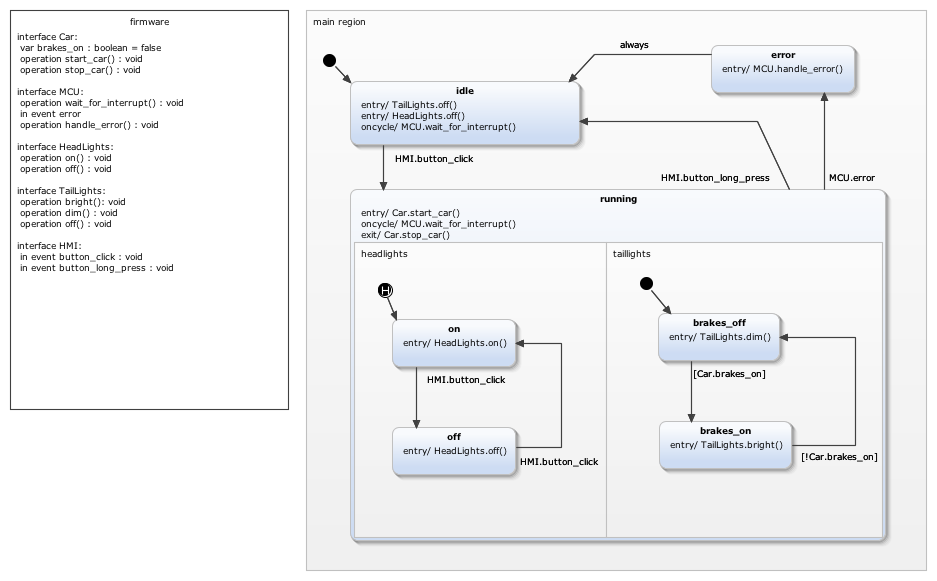
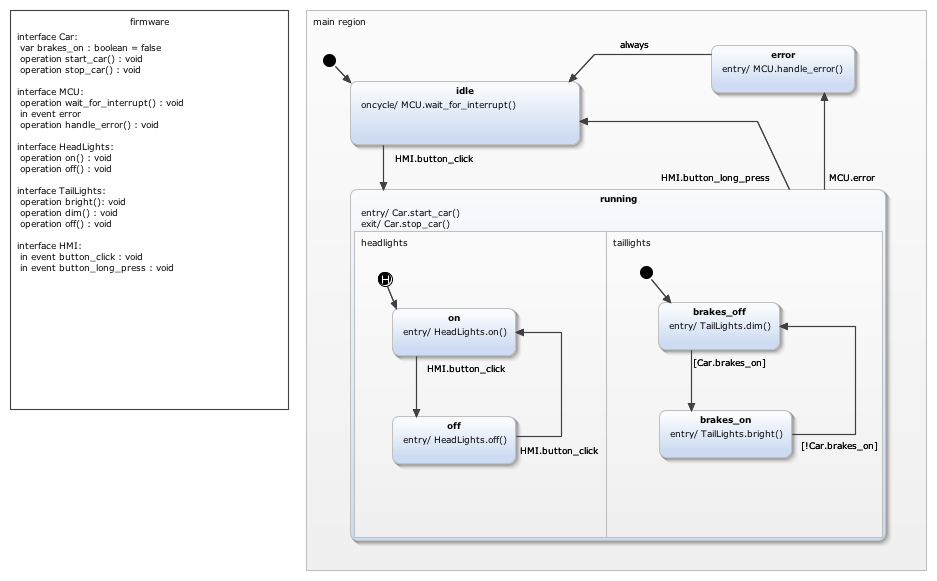
Working version.

diff --git a/Firmware/Wake-on-Shake_Firmware/Firmware.c b/Firmware/Wake-on-Shake_Firmware/Firmware.c
@@ -12,7 +12,6 @@ static sc_boolean firmware_check_main_region_idle_tr0_tr0(const Firmware* handle
 static sc_boolean firmware_check_main_region_idle_lr0_lr0(const Firmware* handle);
 static sc_boolean firmware_check_main_region_running_tr0_tr0(const Firmware* handle);
 static sc_boolean firmware_check_main_region_running_tr1_tr1(const Firmware* handle);
-static sc_boolean firmware_check_main_region_running_lr1_lr1(const Firmware* handle);
 static sc_boolean firmware_check_main_region_running_headlights_on_tr0_tr0(const Firmware* handle);
 static sc_boolean firmware_check_main_region_running_headlights_off_tr0_tr0(const Firmware* handle);
 static sc_boolean firmware_check_main_region_running_taillights_brakes_on_tr0_tr0(const Firmware* handle);
@@ -22,7 +21,6 @@ static void firmware_effect_main_region_idle_tr0(Firmware* handle);
 static void firmware_effect_main_region_idle_lr0_lr0(Firmware* handle);
 static void firmware_effect_main_region_running_tr0(Firmware* handle);
 static void firmware_effect_main_region_running_tr1(Firmware* handle);
-static void firmware_effect_main_region_running_lr1_lr1(Firmware* handle);
 static void firmware_effect_main_region_running_headlights_on_tr0(Firmware* handle);
 static void firmware_effect_main_region_running_headlights_off_tr0(Firmware* handle);
 static void firmware_effect_main_region_running_taillights_brakes_on_tr0(Firmware* handle);
@@ -282,11 +280,6 @@ static sc_boolean firmware_check_main_region_running_tr1_tr1(const Firmware* han
 	return handle->ifaceMCU.error_raised;
 }
 
-static sc_boolean firmware_check_main_region_running_lr1_lr1(const Firmware* handle)
-{
-	return bool_true;
-}
-
 static sc_boolean firmware_check_main_region_running_headlights_on_tr0_tr0(const Firmware* handle)
 {
 	return handle->ifaceHMI.button_click_raised;
@@ -333,11 +326,6 @@ static void firmware_effect_main_region_running_tr1(Firmware* handle)
 {
 	firmware_exseq_main_region_running(handle);
 	firmware_enseq_main_region_error_default(handle);
-}
-
-static void firmware_effect_main_region_running_lr1_lr1(Firmware* handle)
-{
-	firmwareIfaceMCU_wait_for_interrupt(handle);
 }
 
 static void firmware_effect_main_region_running_headlights_on_tr0(Firmware* handle)
@@ -699,7 +687,6 @@ static void firmware_react_main_region_running_headlights_on(Firmware* handle)
 			firmware_effect_main_region_running_tr1(handle);
 		}  else
 		{
-			firmware_effect_main_region_running_lr1_lr1(handle);
 			if (firmware_check_main_region_running_headlights_on_tr0_tr0(handle) == bool_true)
 			{ 
 				firmware_effect_main_region_running_headlights_on_tr0(handle);
@@ -722,7 +709,6 @@ static void firmware_react_main_region_running_headlights_off(Firmware* handle)
 			firmware_effect_main_region_running_tr1(handle);
 		}  else
 		{
-			firmware_effect_main_region_running_lr1_lr1(handle);
 			if (firmware_check_main_region_running_headlights_off_tr0_tr0(handle) == bool_true)
 			{ 
 				firmware_effect_main_region_running_headlights_off_tr0(handle);

diff --git a/Firmware/Wake-on-Shake_Firmware/Wake-on-Shake.c b/Firmware/Wake-on-Shake_Firmware/Wake-on-Shake.c
@@ -58,6 +58,7 @@ static void taillights_bright(void)
 {
     // High duty cycle (brake lights on full)
     OCR0A = 250;
+    OCR1AH = 0;
     OCR1AL = 250;
 }
 
@@ -65,6 +66,7 @@ static void taillights_dim(void)
 {
     // low duty cycle (brake lights dim)
     OCR0A = 10;
+    OCR1AH = 0;
     OCR1AL = 10;
 }
 
@@ -99,7 +101,7 @@ static Firmware _sc_firmware;
 // +---------------------------------------------------------------------------+
 #define BUTTON_DOWN_MASK 0xFFF
 #define BUTTON_LONG_PRESS_MASK 0xFFFFFFFF
-#define BUTTON_LONG_PRESS_COUNT 8
+#define BUTTON_LONG_PRESS_COUNT 32
 #define BUTTON_PORT PIND
 #define BUTTON_PIN PIND0
 
@@ -182,30 +184,27 @@ static void setup_gpio(void)
 
 static void start_timers(void)
 {
-    TCCR0B |= (1 << CS01);
-    TCCR1B |= (1 << CS11);
-    _NOP();
-}
-
-static void stop_timers(void)
-{
-    TCCR0B &= ~((1 << CS02) | (1 << CS01) | (1 << CS00));
-    TCCR1B &= ~((1 << CS12) | (1 << CS11) | (1 << CS10));
-    _NOP();
-}
-
-static void setup_timers(void)
-{
     // +--[TIMER 0]------------------------------------------------------------+
     // Timer0 is setup to provide an 8% duty cycle at 490Hz when enabled. This
     // is used as the "brake off" current sent to the brake lights.
 
     // Using fast PWM
     TCCR0A = (1 << COM0A1) | (1 << WGM01) | (1 << WGM00);
+    TCCR0B = (1 << CS01);
 
     TCCR1A = (1 << COM1A1) | (1 << WGM10);
-    TCCR1B = (1 << WGM12);
-    OCR1AH = 0;
+    TCCR1B = (1 << WGM12) | (1 << CS11);
+
+    _NOP();
+}
+
+static void stop_timers(void)
+{
+    TCCR0A = 0;
+    TCCR0B = 0;
+    TCCR1A = 0;
+    TCCR1B = 0;
+    _NOP();
 }
 
 void _init_MCU(void) __attribute__((naked)) __attribute__((section(".init3")));
@@ -215,8 +214,7 @@ void _init_MCU(void)
     setup_gpio();
     setup_interrupts();
     // setup_usi();
-    setup_timers();
-    set_sleep_mode(SLEEP_MODE_IDLE);
+    set_sleep_mode(SLEEP_MODE_PWR_DOWN);
 }
 
 void _init_peripherals(void) __attribute__((naked)) __attribute__((section(".init8")));
@@ -250,11 +248,6 @@ int main(void)
             firmwareIfaceCar_set_brakes_on(&_sc_firmware, true);
         }
         firmware_runCycle(&_sc_firmware);
-
-        // TODO: remove me
-        for (uint8_t i = 0; i < 255; ++i) {
-            _NOP();
-        }
     }
 
     firmware_exit(&_sc_firmware);
